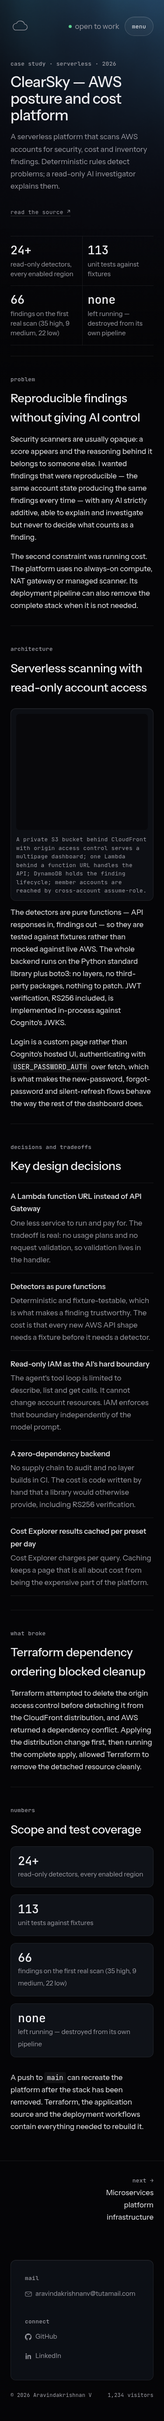
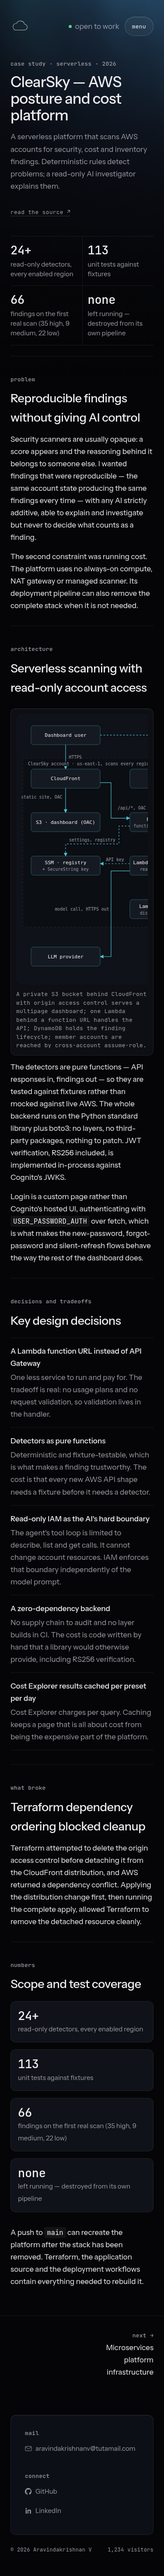
feat(diagrams): redraw the ClearSky architecture as a dark SVG
The case study showed a white draw.io PNG whose labels shrank to about
6px in the content column. web/diagrams/clearsky.mjs now draws it on a
grid from the ClearSky repo's docs/architecture.drawio (21 nodes, 18
edges) in the site's colours and mono type. A test fails if the
committed SVG drifts from the generator.

Figures link to their full-size file, and below 680px a wide SVG pans
inside its frame at 900px instead of shrinking to unreadable text.

Changed region(s): [[0.0587, 0.0, 0.9387, 0.9329], [0.2347, 0.9329, 0.352, 0.9951], [0.1467, 0.9329, 0.2347, 0.9951]]

diff --git a/web/src/lib/case-study.ts b/web/src/lib/case-study.ts
@@ -124,7 +124,9 @@ export const renderCaseStudyBody = (body: string, project: Project) => {
       const index = Number(indexText);
       const figure = figures[index];
       if (!figure) throw new Error(`Unknown figure ${index} in ${project.slug}`);
-      return `<figure class="arch"><img src="${escapeAttribute(figure.image)}" alt="${escapeAttribute(figure.imageAlt)}" loading="lazy" decoding="async">${caption}</figure>`;
+      // The link opens the full-size file: on a phone a wide diagram is panned or zoomed there.
+      const src = escapeAttribute(figure.image);
+      return `<figure class="arch"><a class="arch-open" href="${src}"><img src="${src}" alt="${escapeAttribute(figure.imageAlt)}" loading="lazy" decoding="async"></a>${caption}</figure>`;
     },
   );
 };

diff --git a/web/src/styles/global.css b/web/src/styles/global.css
@@ -490,6 +490,12 @@ figure.arch img {
   border-radius: 8px;
   background: #08080b;
 }
+figure.arch .arch-open { display: block; cursor: zoom-in; }
+/* Phones: a wide diagram keeps a readable size and pans inside its frame; tapping opens it whole. */
+@media (max-width: 680px) {
+  figure.arch .arch-open { overflow-x: auto; -webkit-overflow-scrolling: touch; }
+  figure.arch .arch-open img[src$=".svg"] { width: 900px; max-width: none; max-height: none; }
+}
 figure.arch figcaption {
   max-width: 74ch;
   margin-top: 12px;

diff --git a/TASKS.md b/TASKS.md
@@ -1,6 +1,33 @@
 # Portfolio tasks
 
-## Current phase: 19, case-study template
+## Current phase: 20, dark diagrams (ClearSky first)
+
+Branch `feat/dark-diagrams`. Standard: one generator, one SVG, renderer link, CSS and a test.
+
+- [x] `web/diagrams/clearsky.mjs` draws the ClearSky architecture on a 4-column grid from
+      `arkhiVd/clearsky` `docs/architecture.drawio`: 21 nodes, 18 labelled edges, account and
+      member-account boundaries. Output `web/public/assets/img/clearsky-architecture.svg`, 11 KB
+      (the PNG it replaces was 66 KB, white, and its SSM label was out of date).
+- [x] Figures link to their full-size file. Below 680 px SVG figures pan at 900 px.
+- [x] Test: the committed SVG equals the generator's output.
+- [x] Measured: desktop 848 px wide, node text 10.6 px, edge labels 9.2 px (the PNG gave about 6 px);
+      phone 900 px inside a 302 px frame, node text 11.3 px, labels 9.8 px; page width 375.
+
+Local evidence, 2026-11-06:
+
+```text
+astro check: 0 errors; node:test: 16 passed, 0 failed
+browser gate, 14 pages: axe 0 violations; overflow none at 320/375/768/1280/2560;
+  no-JS, keyboard focus, links and anchors PASS
+terraform plan: 2 add, 14 change, 2 destroy, 0 replace (hashed CSS swap; PNG replaced by the SVG,
+  content_type image/svg+xml)
+```
+
+Next: appstack, cdc, cicd-containers and cloud-detective diagrams, one PR each, from each repo's source.
+
+## Previous phase: 19, case-study template
+
+Merged as PR #56 and applied 2026-11-06: 1 add, 14 change, 1 destroy; post-apply plan empty.
 
 Branch `feat/case-study-template`. Standard: layout, renderer helpers, CSS and the gate's capture list.
 

diff --git a/DESIGN.md b/DESIGN.md
@@ -185,6 +185,14 @@ Every case study ends with previous and next links in project order.
 **Figure** — diagrams full-width inside the content column, 12 px radius, hairline border,
 mono caption below in `--muted`. Must stay legible at 375 px — re-export rather than shrink.
 
+Architecture diagrams are dark SVG drawn on a grid by a generator in `web/diagrams/<name>.mjs`
+(colours from the tokens, mono text, accent edges, dashed lines for auth and reads, dashed
+boundaries for accounts). A test fails if the committed SVG differs from the generator's output.
+Each figure links to its full-size file. Below 680 px an SVG figure keeps a 900 px width and pans
+inside its frame instead of shrinking, so its text stays near 10 px; the page itself never
+scrolls sideways. The graph data comes from the project's own diagram source (ClearSky:
+`docs/architecture.drawio` in its repo), never redrawn from memory.
+
 **Certification lockup** — issuer badge artwork, credential name and direct verification
 link. Badge canvases are normalized to one size so different vendor artwork does not disrupt
 the grid.

diff --git a/web/src/content/projects/clearsky.md b/web/src/content/projects/clearsky.md
@@ -3,8 +3,8 @@ name: ClearSky — AWS posture and cost platform
 status: completed
 summary: Scans multiple AWS accounts for security, cost and inventory findings. Deterministic detectors create the findings; a read-only AI investigator explains them without changing resources.
 stack: [Lambda, DynamoDB, Cognito, CloudFront, Terraform]
-image: /assets/img/clearsky-architecture.png
-imageAlt: "ClearSky architecture: CloudFront and Cognito in front of Lambda function URLs, DynamoDB, EventBridge and cross-account IAM roles"
+image: /assets/img/clearsky-architecture.svg
+imageAlt: "ClearSky architecture: CloudFront serves the dashboard from S3 and sends /api to a Lambda API that verifies Cognito sign-in. A daily schedule runs the scanner, which assumes a read-only role in member accounts, stores findings in DynamoDB and emails a digest. GitHub Actions deploys through OIDC roles."
 repo: https://github.com/arkhiVd/clearsky
 order: 1
 featuredOrder: 1

diff --git a/ROADMAP.md b/ROADMAP.md
@@ -288,6 +288,20 @@ No content or diagram changes (diagrams are the next phase).
 
 Exit criteria:
 - [x] Browser gate passes on all 14 pages, including every `#section` anchor.
+- [x] Fresh-context review; CI; merge; live check.
+
+## Phase 20: dark diagrams, starting with ClearSky
+
+**Class:** Standard. "Phase E" in the 2026-11-05 redesign system.
+
+Scope: a grid-layout SVG generator and the ClearSky diagram from its draw.io source (21 nodes,
+18 edges); figures link to their full-size file; phones pan wide SVG figures at a readable size; a
+test that the committed SVG matches its generator. The other four case-study diagrams follow in
+their own PRs, each from that project's own source.
+
+Exit criteria:
+- [x] ClearSky labels render at about 10 px on desktop and phone; page has no horizontal scroll.
+- [x] Browser gate passes on all 14 pages.
 - [ ] Fresh-context review; CI; merge; live check.
 
 ## Delegation budget
